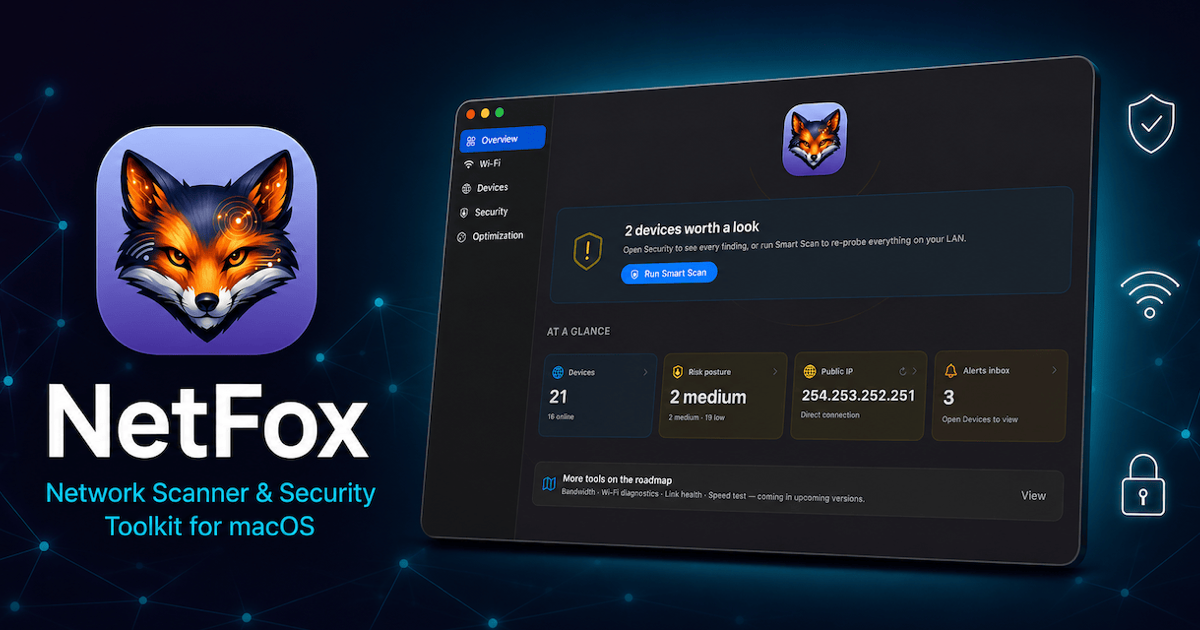
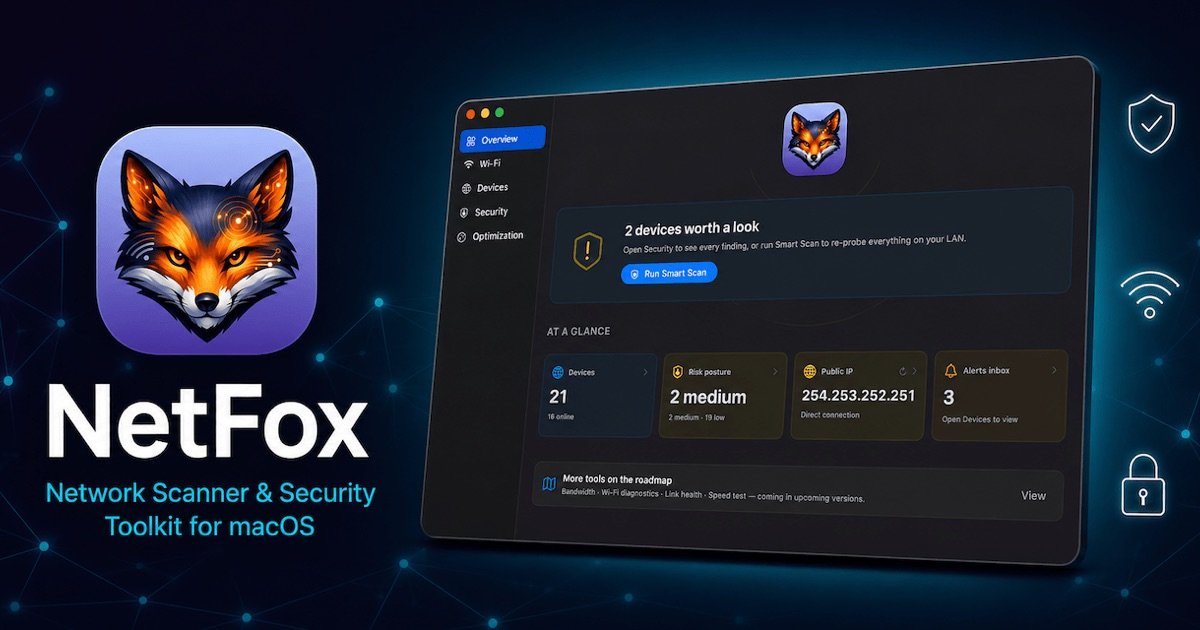
perf: SEO P2 — recompress OG images, prioritize hero LCP
- OG/Twitter share images recompressed 807 KB -> 131 KB (JPEG q80, 1200x630 unchanged) — faster, cleaner link previews while the launch is being shared, no visible quality loss.
- Hero logo (above-the-fold LCP candidate) gets fetchPriority=high + loading=eager so the browser fetches it early.

Homepage H1 left as-is on purpose: 'Know who's on your network — always.' is strong marketing copy, and the primary keyword ('native macOS network monitor') is already prominent in the subhead directly below it, plus the title tag, meta description and SoftwareApplication JSON-LD — where it carries far more SEO weight than the H1. Forcing the keyword into the H1 would weaken the hero for marginal gain.

A full next/image migration of the on-page screenshots (modern formats + lazy-load) is deferred — it's a broader, multi-component change worth measuring with Lighthouse first.

diff --git a/components/Welcome/Welcome.tsx b/components/Welcome/Welcome.tsx
@@ -272,6 +272,10 @@ export function Welcome() {
             <Image
               src="/icon-512x512.png"
               alt="Netfox"
+              // Hero logo is the above-the-fold LCP candidate — hint the
+              // browser to fetch it eagerly and at high priority.
+              fetchPriority="high"
+              loading="eager"
               w={{ base: 120, sm: 160, md: 200 }}
               h={{ base: 120, sm: 160, md: 200 }}
               style={{
